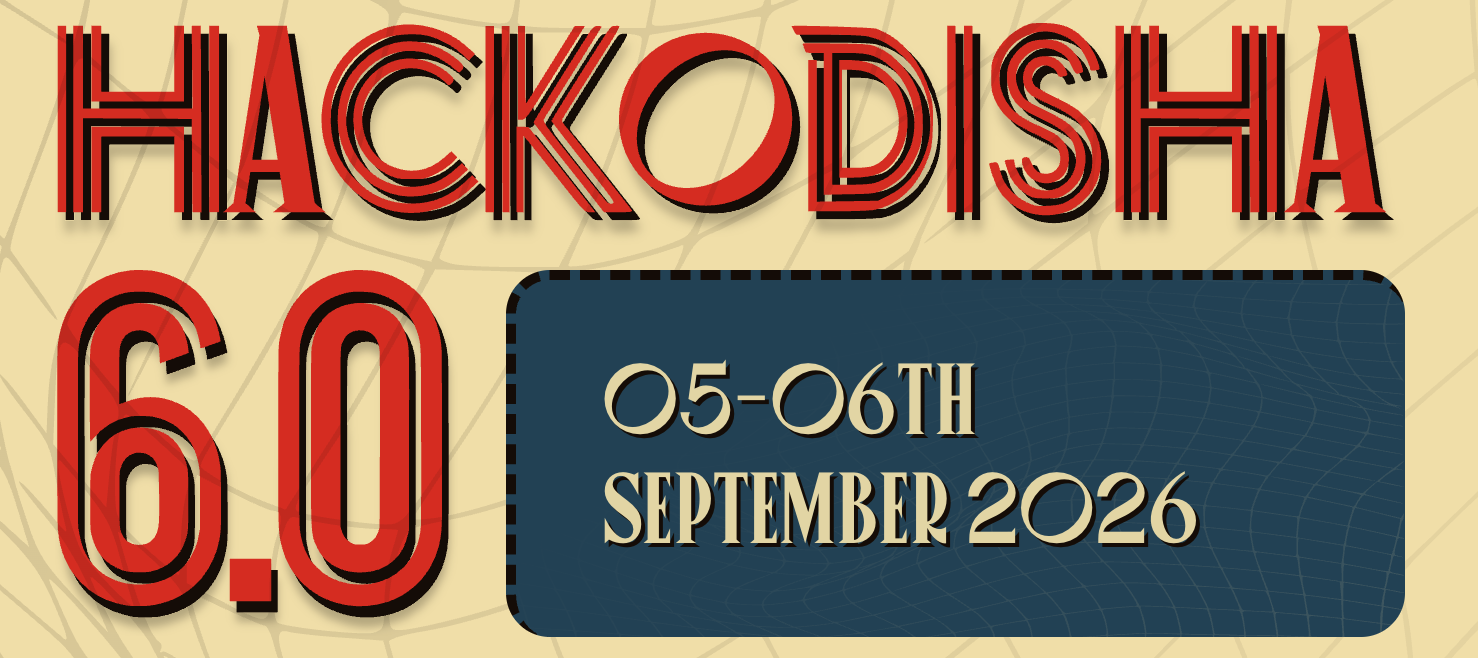
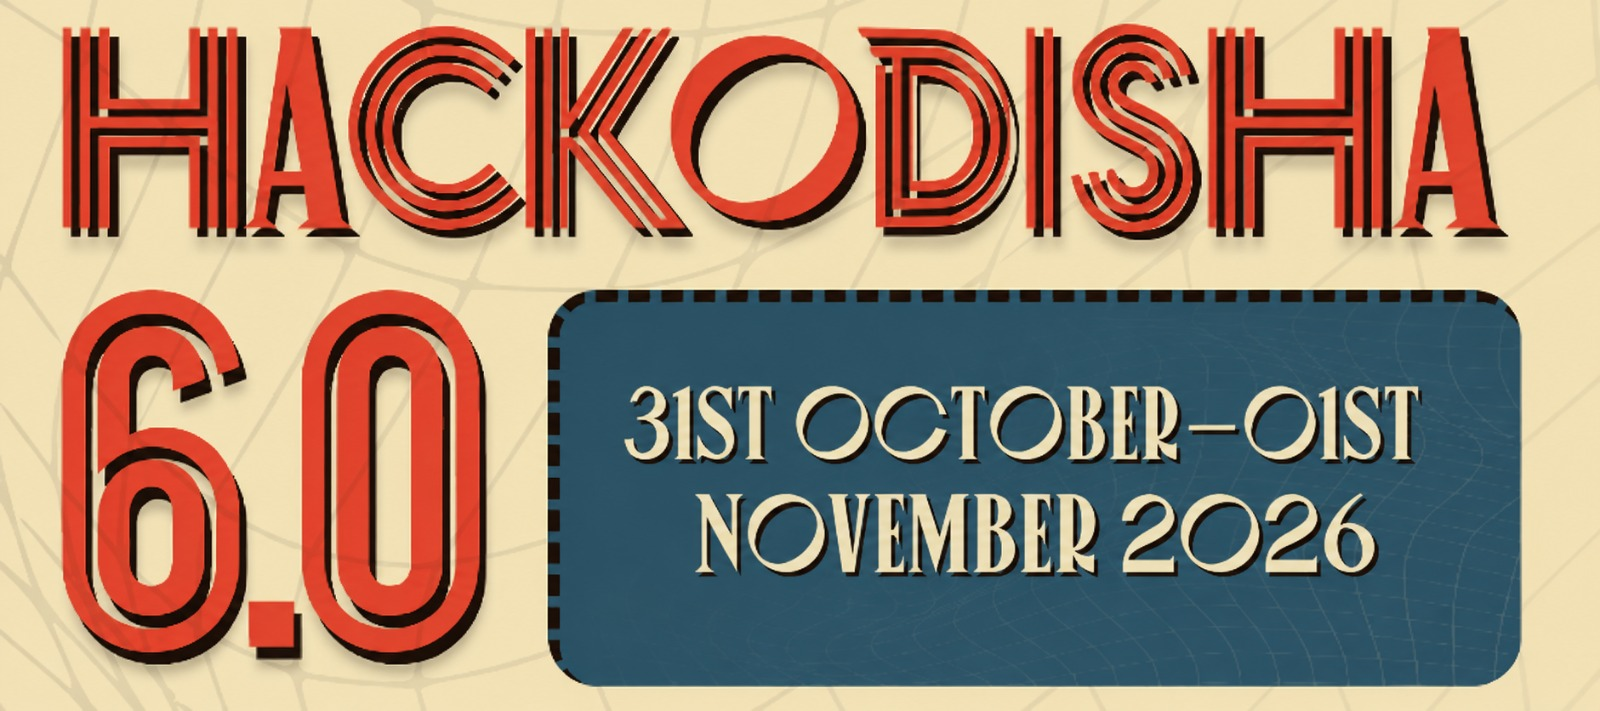
fix: cover pic

diff --git a/src/config/index.ts b/src/config/index.ts
@@ -28,7 +28,7 @@ export const heroConfig = {
     mobileDiscordLabel: 'JOIN DISCORD',
   },
   event: {
-    dayRange: '31-01TH',
+    dayRange: '31st-01st', //write in supercript format
     monthAndYear: 'November 2026',
     applyHref: '#',
     applyLabel: 'APPLY WITH DEVFOLIO',
